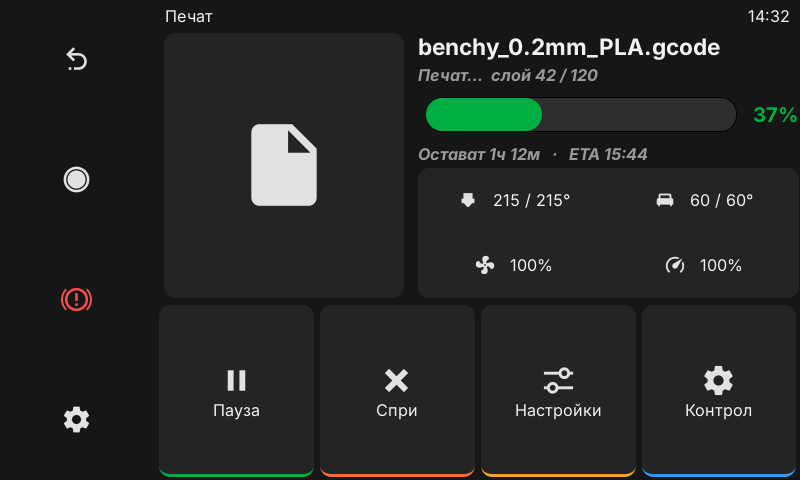
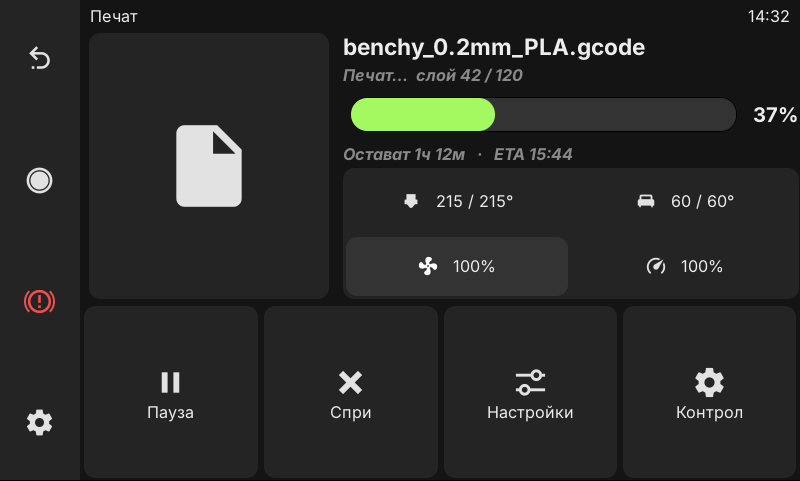
Restyle theme after Bambu H2S reference: lime accent, flat cards
Palette sampled from H2S screenshots (bg #141414, cards #242424,
accent #A5F960). Category buttons are now uniform cards, selected
items get a lime outline and tint, switches are lime with a dark knob.
Preview script now mirrors KlipperScreen's base panel grid.

Claude-Session: https://claude.ai/code/session_01UDXxExjckQXFuTFM9n4juG

diff --git a/styles/ang-bambu/style.css b/styles/ang-bambu/style.css
@@ -5,26 +5,27 @@
  */
 
 /* ---------- Палитра ---------- */
-@define-color text        #F2F2F2;
-@define-color text-dim    #9A9A9A;
-@define-color bg          #161616;
-@define-color card        #242424;
-@define-color card-hi     #2E2E2E;
-@define-color card-press  #383838;
-@define-color accent      #00AE42;   /* Bambu зелено */
-@define-color accent-dark #0B3D1F;
+@define-color text        #EDEDED;
+@define-color text-dim    #8A8A8A;
+@define-color bg          #141414;
+@define-color card        #242424;   /* карти и странична лента */
+@define-color card-hi     #333333;   /* вътрешни елементи, кръгове зад икони */
+@define-color card-press  #3D3D3D;
+@define-color accent      #A5F960;   /* лайм акцент */
+@define-color accent-dark #1F2A17;   /* тъмнозелен фон на избран елемент */
+@define-color on-accent   #141414;   /* текст върху лайм */
 @define-color hot         #FF6A3D;   /* дюза */
 @define-color bed         #2F9BFF;   /* легло */
-@define-color fanc        #00AE42;
+@define-color fanc        #A5F960;
 
-@define-color echo    #00AE42;
+@define-color echo    #5FB83A;
 @define-color warning #F5A623;
 @define-color error   #E5484D;
 
 @define-color buttons-bg  @card;
 @define-color active      @accent;
 @define-color active-dark @card-hi;
-@define-color lines       #3A3A3A;
+@define-color lines       #333333;
 
 /* ---------- Основа ---------- */
 * {
@@ -63,28 +64,22 @@ button.active,
     background-color: @card-press;
 }
 
-/* Цветните бутони на KlipperScreen стават неутрални плочки
-   с тънка цветна черта отдолу — като категориите при Bambu */
+/* Цветните бутони на KlipperScreen стават еднакви неутрални карти,
+   както при Bambu — без цветни рамки */
 button.color1,
 button.color2,
 button.color3,
 button.color4 {
     background-color: @card;
     border: none;
-    border-bottom: .18em solid @lines;
     border-radius: .7em;
 }
-button.color1 { border-bottom-color: @accent; }
-button.color2 { border-bottom-color: @hot; }
-button.color3 { border-bottom-color: @warning; }
-button.color4 { border-bottom-color: @bed; }
 
 button.color1:active,
 button.color2:active,
 button.color3:active,
 button.color4:active {
     background-color: @card-press;
-    border-bottom-width: .1em;
 }
 
 button.button_active,
@@ -94,8 +89,12 @@ button.color3.button_active,
 button.color4.button_active,
 .button_active {
     background-color: @accent-dark;
-    border: .15em solid @accent;
+    border: .1em solid @accent;
     border-radius: .7em;
+}
+
+.button_active label {
+    color: @accent;
 }
 
 button:focus,
@@ -125,7 +124,7 @@ button.invalid { border-bottom-color: @error; }
 }
 
 .action_bar {
-    background-color: @bg;
+    background-color: @card;
 }
 
 .action_bar button {
@@ -134,7 +133,7 @@ button.invalid { border-bottom-color: @error; }
 }
 
 .action_bar button:active {
-    background-color: @card;
+    background-color: @card-hi;
 }
 
 /* ---------- Превключватели, полета, менюта ---------- */
@@ -243,7 +242,7 @@ textview .time {
 }
 
 .printing-progress-text {
-    color: @accent;
+    color: @text;
     font-weight: bold;
 }
 
@@ -268,17 +267,18 @@ textview .time {
 
 /* ---------- Таб-бутони (напр. стъпки на движение) ---------- */
 .horizontal_togglebuttons {
-    background-color: @card;
-    border-color: @bg;
+    background-color: @card-hi;
+    border: .1em solid @card-hi;
 }
 
+/* Сегментиран избор като Cooling/Heating при Bambu */
 .horizontal_togglebuttons_active {
-    background-color: @accent;
+    background-color: @accent-dark;
+    border: .1em solid @accent;
 }
 
 .horizontal_togglebuttons_active label {
-    color: #FFFFFF;
-    font-weight: bold;
+    color: @accent;
 }
 
 /* ---------- Диалози и съобщения ---------- */
@@ -348,4 +348,18 @@ textview .time {
 .keyboard_pad button {
     background-color: @card;
     border-radius: .5em;
+}
+
+/* ---------- Превключвател като при Bambu: лайм с тъмно копче ---------- */
+switch slider {
+    background-color: @text;
+    border: none;
+}
+
+switch:checked slider {
+    background-color: @on-accent;
+}
+
+switch:checked {
+    color: @on-accent;
 }

diff --git a/tools/preview.py b/tools/preview.py
@@ -18,7 +18,7 @@ os.chdir(KS)
 css = open(BASE).read().replace("KS_FONT_SIZE", f"{FS}")
 css += open(os.path.join(THEME_DIR, "style.css")).read()
 # KlipperScreen sets these per device from style.conf graph_colors; emulate:
-css += ".gl-hot{border-left-color:#FF6A3D}.gl-bed{border-left-color:#2F9BFF}.gl-fan{border-left-color:#00AE42}.gl-x{border-left-color:#FFB020}"
+css += ".gl-hot{border-left-color:#FF6A3D}.gl-bed{border-left-color:#2F9BFF}.gl-fan{border-left-color:#A5F960}.gl-x{border-left-color:#FFB020}"
 css = css.replace("./styles/ang-bambu/", THEME_DIR.rstrip("/") + "/")
 prov = Gtk.CssProvider()
 prov.load_from_data(css.encode())
@@ -54,23 +54,25 @@ def lbl(text, cls=None, xalign=0.0):
 
 def frame(title, content):
     """KlipperScreen layout: action bar left (10%), title bar on top, content."""
-    root = Gtk.Box(orientation=Gtk.Orientation.HORIZONTAL)
-    ab = Gtk.Box(orientation=Gtk.Orientation.VERTICAL, homogeneous=True)
+    # Same structure as KlipperScreen panels/base_panel.py (horizontal mode)
+    root = Gtk.Grid()
+    ab = Gtk.Box(orientation=Gtk.Orientation.VERTICAL, spacing=5, homogeneous=True, vexpand=True, hexpand=False)
     ab.get_style_context().add_class("action_bar")
     ab.set_size_request(int(W * 0.1), H)
     for i in ["back", "main", "emergency", "settings"]:
-        ab.add(btn(i, scale=0.7))
-    right = Gtk.Box(orientation=Gtk.Orientation.VERTICAL)
-    tb = Gtk.Box(spacing=10)
+        b = btn(i, scale=0.7)
+        b.set_hexpand(False)
+        ab.add(b)
+    tb = Gtk.Box(spacing=5, valign=Gtk.Align.CENTER)
     tb.get_style_context().add_class("title_bar")
     tb.set_size_request(-1, int(FS * 2))
     tb.pack_start(lbl("  " + title), True, True, 0)
     tb.pack_end(lbl("14:32  ", xalign=1.0), False, False, 0)
-    right.pack_start(tb, False, False, 0)
     content.get_style_context().add_class("content")
-    right.pack_start(content, True, True, 0)
-    root.pack_start(ab, False, False, 0)
-    root.pack_start(right, True, True, 0)
+    content.set_size_request(W - int(W * 0.1), H - int(FS * 2))
+    root.attach(tb, 1, 0, 1, 1)
+    root.attach(content, 1, 1, 1, 1)
+    root.attach(ab, 0, 0, 1, 2)
     return root
 
 
